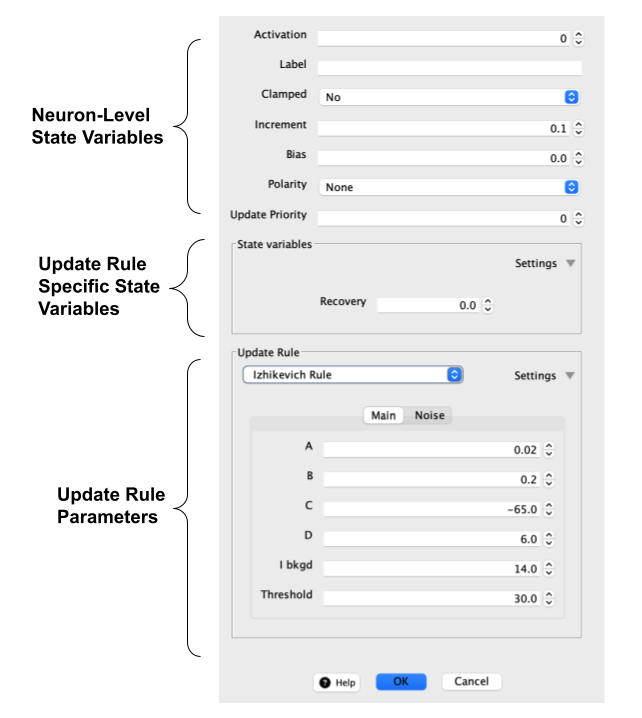
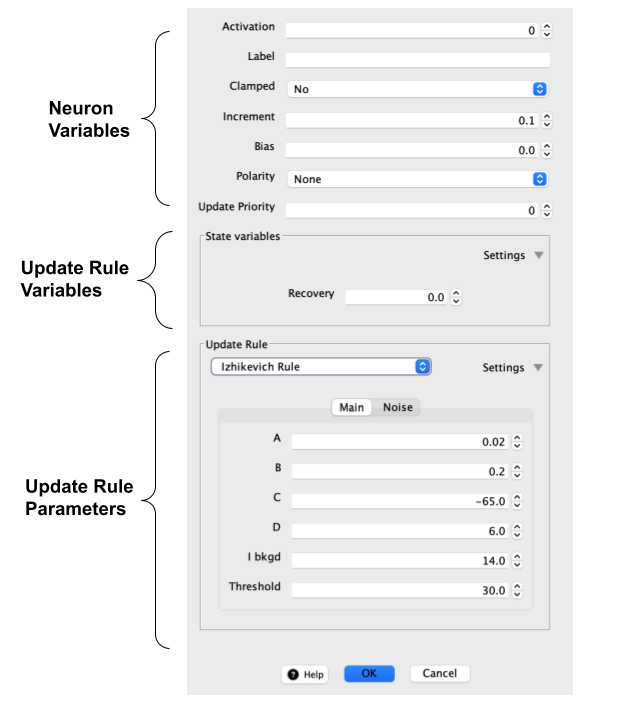
More work on update logic docs

diff --git a/src/docs/network/updateLogic.md b/src/docs/network/updateLogic.md
@@ -22,7 +22,7 @@ There are several variables that play an important role in this process (especia
 
 - **PSR**: (shown as a diamond above). This is the "output" of a synapse. Usually it is just source activation times weight. In the example above it is $$.1$$. However, sometimes the PSR varies over time in response to spikes.
 
-- **Input** (shown as open rectangles above). This is a kind of input buffer that accumulates inputs from other nodes (via PSRs) and via external [couplings](/docs/workspace/Couplings.html). This supports asynchronous or [buffered update](#buffered-update).
+- **Input** (shown as open rectangles above). A buffer that accumulates inputs from other nodes (via PSRs) and via external [couplings](/docs/workspace/Couplings.html). This supports asynchronous or [buffered update](#buffered-update).
 
 <img src="/assets/images/multipleSynapses.png" alt="summation" style="width:600px;"/>
 
@@ -32,23 +32,58 @@ All of these values can exist as arrays: activations, inputs, weight strengths, 
 
 The input to a neuron is transformed into an activation using an [update rule](#update-rules). In general we try to separate data from **rules** that act on these data structures, like update rules, learning rules, and spike responders.
 
-For the rest of these docs we move systematically through how network updates work, starting with the high-level structure of how "actions" are executed and then considering all the types of action and all the types of model that can be updated. 
+<!-- The synapse has two main intrinsic state variables: `psr` or post-synaptic-response, and `strength`. The strength is the classic weight value of a synapse. The `psr` is a variable that corresponds to the "output" of the synapse. In the basic case, the `psr` is just the source neuron activation for the synapse times the weight strength. In the case shown, if the weight strength is .5, then the psr is .2 * .5, and so on update the target synapse is set to .1. Often in a neural network this is all we have. -->
+
 
 # Update Rules
 
 [Neurons](neurons/), [synapses](synapses), [neuron arrays and weight matrices](arraysMatrices), and [spike responders](spikingneurons) all use a design that separates update rules from the data they operate on. These can be called **rule objects**.  We will start with the case of neurons; the same basic structure applies to other objects as well.
 
-This schematic shows three main types of objects associated with a neuron, all of which can be edited using a Simbrain [property editor](../utilities/propertyEditor.html).
+This schematic shows three main types of value associated with a neuron, all of which can be edited using a Simbrain [property editor](../utilities/propertyEditor.html).
 
 <img src="/assets/images/ruleAndDataHolder.png" alt="neuron rule and data holder" style="width:400px;"/>
 
-1. **Neuron-level state variables** like activation and bias. Only activation is shown in the image above.
-2. **Update rule state variables**: which store special state variables associated to the the update rule. In the case shown above, an [Izhikevich neuron](neurons/izhikevich.html) is associated with a recovery variable. These state variables change as the update rule is changed.
-3. **Update rules** that _operate_ on all state variables. Update rules are associated with parameters that determine how they operate.
+1. **Neuron variables**. These are variables like activation and bias that every neuron has. It also includes the input buffer which accumulates inputs from other network models and from couplings.
+2. **Update rule variables**. These are variables associated with the update rule. They are called "state variables" in the property dialog. These variables change as the update rule is changed. In the case shown above, an [Izhikevich neuron](neurons/izhikevich.html) is associated with a recovery variable. 
+3. **Update rules**. These are rules that _operate_ on neuron and update rule variables, which can dynamically change as a network is updated. Update rules are associated with parameters that determine how they operate. The parameters do not change as the network is updated.
 
-The dialog for the Izhikevich neuron shows how these can be edited and where each category is in the dialog. 
+The dialog for the Izhikevich neuron shows where each category is in the dialog. 
 
 <img src="/assets/images/izhikDialog.png" alt="neuron rule and data holder" style="width:400px;"/>
+
+# Update Rules on Array Data
+
+The same update rules that operate on scalar data can operate on array data. For example, in a [neuron array](arraysMatrices), the same three categories of data are present: top-level variables (here neuron array variables), update rule variables, and an update rule. Shown below is a schematic which shows how these categories apply to a neuron array using an Izhikevich rule. 
+
+<img src="/assets/images/ruleAndDataHolderArray.png" alt="update rule operating on array data" style="width:800px;"/>
+
+The same rule that operates on scalar state variables with an Izhikevich neuron now operate on arrays with an Izhekevich neuron array, such as an activation array, a bias array, and a recovery array. These can be viewed and edited directly in the dialog. 
+
+# Synapses, Learning Rules, and Spike Responders
+
+These same ideas apply to [synapses](synapses), but there are now potentially _two_ rule objects. There is a learning rule, which updates the synapse's strength, and a [spike responder](spikeresponders), which updates the PSR in response to spikes. Each of these rules can be associated with rule-dependent variables, for example variables which track the course of a spike response (though currently few learning rules or spike responders are associated with special variables). The schematic below shows a synapse with a [Hebbian](synapses/hebbian) learning rule for the weight strength and a [Jump and decay](spikeresponders/jumpdecay) spike responder. 
+
+<img src="/assets/images/synapseRulesFull.png" alt="synapse spike responder and learning rule" style="width:600px;"/>
+
+By default synapses are pretty simple. The learning rule is set to "static synapse rule" and the spike responder is set to "no rule", in which case the synapse is just a static weight value.  But as the image above shows, they can become quite complex, with rules modifying weight strengths and spike response as a simulation runs.
+
+Note that these learning rules are local learning rules, change the weight strength only using information available to the synapse about the source and target neurons it is connected to. A more common way of updating weight strengths is externally, using a [trainer](trainingNetworks.html).
+
+
+# Weight Matrices
+
+The structure of a synapse is mirrored in [weight matrices](arraysMatrices.html), but all state variables are matrices. This is similar to the relationship between neurons and neuron arrays discussed above.  Below is a schematic using Hebbian learning (which will now update a weight matrix) and a Jump and Decay spike responder (which will now update a PSR Matrix)
+
+
+<img src="/assets/images/synapseRulesMatrix.png" alt="Weight matrix rule objects" style="width:500px;"/>
+
+With supervised learning, e.g. backprop, an external trainer updates the weight matrix. Still Hebbian learning, dynamic spike response, etc.--all the same logic as with free synapses--are available in the matrix case.
+
+<!--  In fact in the code the rule objects are shared. Here again `psr` is the "output", but this time of a whole weight matrix. This it is a `psrmatrix`. If there is no spike responder set, the `psrmatix` is the matrix product the source activaiton vector and the actual weight matrix. If there is a [spike responder](spikeresponders/), it is applied to the weight matrix object, and directly updates the `psrmatrix`, using the `weightMatrix`, `source.activationArray` as needed, and anything other matrix-shaped state variables (like a matrix of recovery variables) associated the spike responder itself.
+
+Thus, for a neuron array,  `update()` iterates through a fan-in of weight matrices, calling `updatePSR()` on each one, and then adding the resulting `psrMatrices` using vector addition to update the neuron's activations. This allows connectionist and spiking input arrays to feed to the same neuron array.
+
+Before we summed PSRs but now we are “summing PSR matrices” and then mutating them. -->
 
 # Update actions
 
@@ -93,6 +128,35 @@ Buffering solves some but not all problems with update order. For example, it ma
 
 Note that items _within_ [Neuron groups](neurongroups/) and [subnetworks](subnetworks/) are updated in a custom manner specific to the group or network. To customize even further [custom simulations](simulations) can be used.
 
+<!-- [Neuron groups](../neurongroups) and [subnetworks](subnetworks) have their own customized update functions. For example, [feedforward](subnetworks/feedForward.html) networks update the input nodes first, then hidden layers in sequence, then  output nodes.  [Neuron collections](neurongroups/index.html#neuron-collections) don't have custom update. [Hopfield](subnetworks/hopfield.html) networks have three kinds of update, including stochastic update where a random node is selected for update each iteration. -->
+
+
+### PSR Update
+
+Here is how synapses `psr` is updated, in pseudocode:
+
+```kotlin
+fun Synapse.updatePSR():
+    if spikeResponder:
+        // The spike responder updates the psr
+        spikeResonder.apply(this)
+    else
+        // Connectionist case
+        psr = source.activation * weightStrength
+```
+
+For a given neuron,  `update()` just works by iterating through fan-in synapses and calling `updatePSR()`, and then aggregating these to update activation. This allows connectionist and spiking neurons to connect to the same neuron
+
+```kotlin
+fun Neuron.update()
+    for synapse in fanIn:
+        synapse.updatePSR()
+        activation += synapse.psr
+```
+
+<!-- Synaptic inputs are a bit more complicated than weighted inputs as they attempt to capture some of the dynamics of real synapses in the brain. This type of input is meant specifically for translating action potentials (spikes) created when spiking neurons fire into a continuous value which can be interpreted by other neurons. (So this input type is not meaningful if the pre-synaptic neuron does not produce action potentials). Synaptic inputs perform a weighted sum over the post-synaptic responses of the incoming synapses, which are themselves governed by **spike responders**. More details can be found in the **spike responder** and **spiking neuron** documentation pages. The basic idea is that spikes are modeled as being instantaneous in time and spike responders generate a continuous value from this instantaneous one, for example producing a decaying stream of input to the post-synaptic neuron after a spike (as in the animated image above). -->
+
+
 ### Why Buffering Matters
 
 To see why buffering matters, consider the network below. Neuron $$n_1$$ is clamped and weight strengths are $$1$$. Assume buffering is turned off (in Simbrain this means using priority-based updating, where we specify which nodes are updated in which order)
@@ -128,61 +192,6 @@ In this case network models are associated with a priority which the user can se
 However, in practice, it's often not needed, because relevant subnetworks already update in this way.
 
 Currently priority is only used for neuron update. If there is a demand for other items (in particular neuron arrays) to be updated using priority based update it will be added. When priority-based update is used, `Buffered Update` should be removed fro the update list, and all other groups, arrays, etc must be manually updated. 
-
-# Neuron Groups and Subnetworks
-
-[Neuron groups](../neurongroups) and [subnetworks](subnetworks) have their own customized update functions. For example, [feedforward](subnetworks/feedForward.html) networks update the input nodes first, then hidden layers in sequence, then  output nodes.  [Neuron collections](neurongroups/index.html#neuron-collections) don't have custom update. [Hopfield](subnetworks/hopfield.html) networks have three kinds of update, including stochastic update where a random node is selected for update each iteration.
-
-# Update Rules Operate on Array Data
-
-The same rules that operate on scalar data can operate on array data. All the parameters are the same, and the editor dialog is the same, but in the code, array data is operated on.  In Simbrain this is general represented using [Smile matrix](https://haifengl.github.io/linear-algebra.html) objects.
-
-<img src="/assets/images/ruleAndDataHolderArray.png" alt="neuron rule and data holder" style="width:8	00px;"/>
-
-# Synapses, Learning Rules, and Spike Responders
-
-Each synapse outputs a a post synaptic response or PSR. This is typically just source activation times weight. However, when spike responders are used, the PSR must react in a dynamical way to spiking events. Also, the synaptic strength can be updated via learning. To accomodate all this, the following structures are used:
-
-<img src="/assets/images/synapseRulesFull.png" alt="synapse spike responder and learning rule" style="width:600px;"/>
-
-The synapse has two main intrinsic state variables: `psr` or post-synaptic-response, and `strength`. The strength is the classic weight value of a synapse. The `psr` is a variable that corresponds to the "output" of the synapse. In the basic case, the `psr` is just the source neuron activation for the synapse times the weight strength. In the case shown, if the weight strength is .5, then the psr is .2 * .5, and so on update the target synapse is set to .1. Often in a neural network this is all we have.
-
-But two things can be added to the synapse, two rules: (1) a leaning rule, to model how weights change (in unsuperised learning; supervised learning happens via an external [trainer](trainingNetworks.html)), and (2) a spike response rule or spike responder, which models what happens when the pre-synaptic source neuron is a spiking neuron. Both of these are rule objects that operate on the synapse. That is, they read and write to it. Both are associated with rule-dependent data. So if a learning rule is used which needs to track additional data, a learning rule data holder is added to the synapse. If a spike responder needs to track additional data, a spike response data holder is added. Both rule objects have access to all data in the synapse, including the source neuron (e.g. whether it spiked) and the target neuron.
-
-However, in the default case, there is no learning rule, and so the weight just stays the same unless it is manually updated or updated by a training algorithm. And in the default case neurons are not spiking and so no spike responder is needed.
-
-Here is how synapses `psr` is updated, in pseudocode:
-
-```kotlin
-fun Synapse.updatePSR():
-	if spikeResponder:
-		// The spike responder updates the psr
-		spikeResonder.apply(this)
-	else
-		// Connectionist case
-		psr = source.activation * weightStrength
-```
-
-For a given neuron,  `update()` just works by iterating through fan-in synapses and calling `updatePSR()`, and then aggregating these to update activation. This allows connectionist and spiking neurons to connect to the same neuron
-
-```kotlin
-fun Neuron.update()
-	for synapse in fanIn:
-		synapse.updatePSR()
-		activation += synapse.psr
-```
-
-<!-- Synaptic inputs are a bit more complicated than weighted inputs as they attempt to capture some of the dynamics of real synapses in the brain. This type of input is meant specifically for translating action potentials (spikes) created when spiking neurons fire into a continuous value which can be interpreted by other neurons. (So this input type is not meaningful if the pre-synaptic neuron does not produce action potentials). Synaptic inputs perform a weighted sum over the post-synaptic responses of the incoming synapses, which are themselves governed by **spike responders**. More details can be found in the **spike responder** and **spiking neuron** documentation pages. The basic idea is that spikes are modeled as being instantaneous in time and spike responders generate a continuous value from this instantaneous one, for example producing a decaying stream of input to the post-synaptic neuron after a spike (as in the animated image above). -->
-
-# Synapses, Learning Rules, and Spike Responders (array case)
-
-The  same structure applies to [neuron arrays and weight matrices](arraysMatrices.html). In fact in the code the rule objects are shared. Here again `psr` is the "output", but this time of a whole weight matrix. This it is a `psrmatrix`. If there is no spike responder set, the `psrmatix` is the matrix product the source activaiton vector and the actual weight matrix. If there is a [spike responder](spikeresponders/), it is applied to the weight matrix object, and directly updates the `psrmatrix`, using the `weightMatrix`, `source.activationArray` as needed, and anything other matrix-shaped state variables (like a matrix of recovery variables) associated the spike responder itself.
-
-<img src="/assets/images/synapseRulesMatrix.png" alt="Weight matrix rule objects" style="width:500px;"/>
-
-Thus, for a neuron array,  `update()` iterates through a fan-in of weight matrices, calling `updatePSR()` on each one, and then adding the resulting `psrMatrices` using vector addition to update the neuron's activations. This allows connectionist and spiking input arrays to feed to the same neuron array.
-
-Before we summed PSRs but now we are “summing PSR matrices” and then mutating them.
 
 
 # Continuous and Discrete Time Update

diff --git a/src/docs/network/arraysMatrices.md b/src/docs/network/arraysMatrices.md
@@ -8,9 +8,11 @@ nav_order: 30
 
 # Neuron Arrays and Weight Matrices
 
-Simbrain originated as a way to focus intuition on loose or "free"-standing neurons and their connections, which model neuroscience or else show how the connection to neuroscence works in an intuitive way. However most neural networks software use vectors and matrices to represent neural networks, for the obvious reason that it is vastly more efficient. In Simbrain 4 these broadly array-based approaches have been incorproated, and integrated to work alongside all the existing machinery and to carry over as much of the emphasis on intuitive GUI visualization as possible
+Simbrain originated as a way to focus intuition on loose or "free"-standing neurons and their connections, which model neuroscience or else show how the connection to neuroscence works in an intuitive way.  However most neural networks software use vectors and matrices to represent neural networks, which make computations far more efficient. 
 
- <img src="/assets/images/neuronArrayWeightMatrix.png" alt="Neuron array and weight matrix" style="width:400px;"/>
+In Simbrain 4 array-based approaches have been incorporated (using [Smile matrix](https://haifengl.github.io/linear-algebra.html) objects), and are integrated in such a way that they can be used alongside all the existing machinery, using similar GUI visualizations.
+
+<img src="/assets/images/neuronArrayWeightMatrix.png" alt="Neuron array and weight matrix" style="width:400px;"/>
 
 ## Neuron Arrays
  
